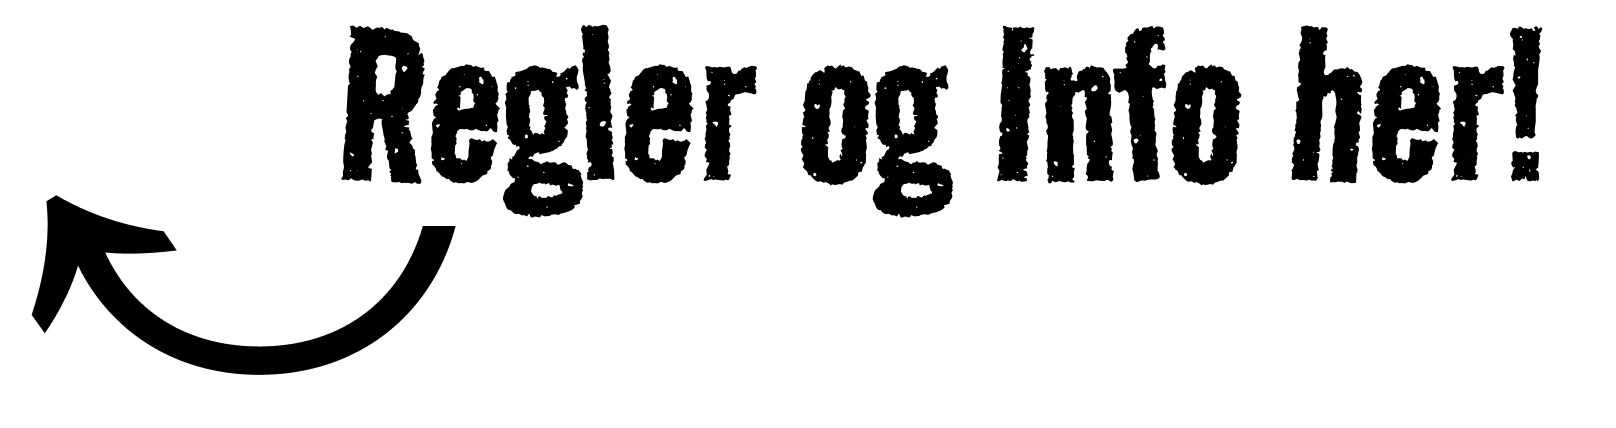
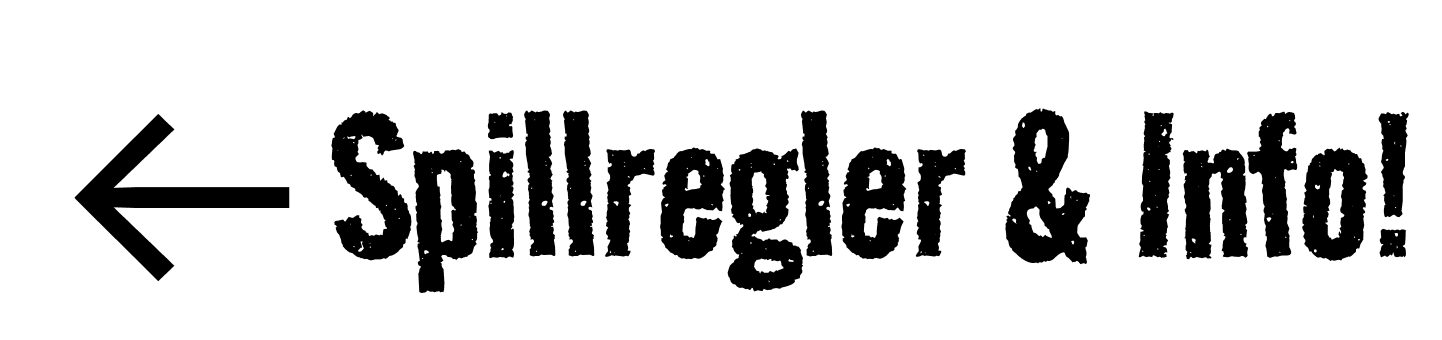
another ui update
>made ui more pleasing to look at
>added a message when user is in horizontal mode

diff --git a/drikkings/src/App.css b/drikkings/src/App.css
@@ -26,18 +26,33 @@ html, body {
   overflow: hidden;
 }
 
+/* For webkit browsers (Chrome, Edge, Safari) */
+::-webkit-scrollbar {
+  display: none;
+}
+
+/* For Firefox */
+html {
+  scrollbar-width: none; /* Firefox */
+  -ms-overflow-style: none; /* IE 10+ */
+}
+
+
 #nav {
   position: absolute;
   top: 0;
   left: 0;
-  height: 4.4rem;
+  height: 4rem;
   width: 100vw;
   background-color: white;
-  z-index: 200;
+  z-index: 400;
+  border-bottom: 1px solid #242424;
+  line-height: 1;
 }
 
 .dark #nav {
   background-color: #242424;
+  border-bottom: 1px solid white; 
 }
 
 /* disable longpress on images */
@@ -70,7 +85,7 @@ img {
   width: max-content;
   height: max-content;
   position: absolute;
-  top: 12px;
+  top: 10px;
   right: 12px;
   border: none;
   background-color: #00000000;
@@ -85,12 +100,12 @@ img {
 }
 
 #btnReturn {
-  top: 12px;
+  top: 10px;
   left: 12px;
 }
 
 #btnInfo {
-  top: 12px;
+  top: 10px;
   left: 12px;
   z-index: 500;
 }
@@ -107,9 +122,9 @@ img {
   
   
   position: absolute;
-  top: 42px;
-  left: 38px;
-  width: 7.5rem;
+  top: 0.95rem;
+  left: 3.45rem;
+  width: 7.7rem;
 }
 
 .dark #infoBtnText {
@@ -124,7 +139,7 @@ img {
 /* LOGO */
 .title {
   text-align: center;
-  padding-top: 3rem;
+  padding-top: 5rem;
   margin-bottom: 2rem;
 }
 
@@ -187,7 +202,7 @@ img {
   background-color: white;
   font-size: 2rem;
   text-align: center;
-  z-index: 1050;
+  z-index: 900;
   gap: 1rem;
 }
 
@@ -198,4 +213,24 @@ img {
 #gameLoad h1 {
   margin: 0;
   font-size: 2.5rem;
+}
+
+
+#wrongRotation {
+  display: block;
+  position: absolute;
+  top: 0;
+  left: 0;
+  width: 100vw;
+  height: 100vh;
+  height: 100dvh;
+  width: 100dvw;
+  background-color: white;
+  z-index: 5000;
+  text-align: center;
+  align-content: center;
+}
+
+.dark #wrongRotation {
+  background-color: #242424;
 }

diff --git a/drikkings/src/App.jsx b/drikkings/src/App.jsx
@@ -1,4 +1,6 @@
 import { Routes, Route } from 'react-router-dom';
+import { useNavigate } from "react-router-dom";
+import { useState, useEffect, useRef } from "react";
 import './App.css';
 import { Helmet } from 'react-helmet';
 import './components/styles/buttons.css';
@@ -14,13 +16,39 @@ import Game4 from './components/games/Game4';
 import Game5 from './components/games/Game5';
 
 function App() {
+  const [winRotation, setWinRotation] = useState(false);
+
+  // checks if the phone is in wrong rotation
+  useEffect(() => {
+    const mediaQuery = window.matchMedia("(orientation: portrait)");
+
+    function handleOrientationChange(e) {
+      if (e.matches) {
+        setWinRotation(false);
+      } else {
+        setWinRotation(true);
+      }
+    }
+
+    // Check once on mount
+    handleOrientationChange(mediaQuery);
+
+    // Listen for changes
+    mediaQuery.addEventListener("change", handleOrientationChange);
+
+    // Clean up when component unmounts
+    return () => {
+      mediaQuery.removeEventListener("change", handleOrientationChange);
+    };
+  }, []);
+
   return (
     <>
       {/* Disable zooming */}
       {/* <Helmet>
         <meta name="viewport" content="width=device-width, initial-scale=1.0, maximum-scale=1.0, user-scalable=0" />
       </Helmet> */}
-        <ThemeToggle />
+      <ThemeToggle />
       <div id="nav">
         <InfoButton />
       </div>
@@ -48,6 +76,12 @@ function App() {
           </Routes>
         </div>
       </div>
+
+      {winRotation && (
+          <div id="wrongRotation">
+            <h1>🔄 Roter mobilen vertikalt 🔄</h1>
+          </div>
+        )};
     </>
   );
 }

diff --git a/drikkings/src/components/games/Game2.jsx b/drikkings/src/components/games/Game2.jsx
@@ -268,12 +268,14 @@ function Game2() {
 
   return (
     <div className="game" id="game2">
-      <button id="btnReturn" onClick={() => { resetNextText(); navigate("/"); }}>⬅</button>
-      <h2 id="g2_title">Shot Roulette</h2>
+      <div id="nav">
+        <button id="btnReturn" onClick={() => { resetNextText(); navigate("/"); }}>⬅</button>
+        <h2 id="g2_title">Shot Roulette</h2>
+      </div>
+
       <p id="clickTextGame2" ref={clickTextRef} className={firstPress ? "clicked" : ""}>
         Hint: Trykk for å skyte revolveren!
       </p>
-
       <div id="game2Container" onPointerUp={() => { shotsFired(); }}>
         <div id="revGun">
           <img draggable="false" className="rev_light" src={imageCache.current["revolver"]?.src} alt="revolver" />
@@ -287,11 +289,11 @@ function Game2() {
         </p>
 
         <div id="nextText" />
+        <div id="shotVisual">
+          <RoundsLeft rounds={shotRounds} />
+        </div>
       </div>
 
-      <div id="shotVisual">
-        <RoundsLeft rounds={shotRounds} />
-      </div>
 
       {gameIntro && (
         <div id="game2Start" className={isIntroClicked ? "clicked" : ""}>

diff --git a/drikkings/src/components/games/g_styles/game2.css b/drikkings/src/components/games/g_styles/game2.css
@@ -8,12 +8,16 @@
   background-color: rgb(255, 255, 255);
 }
 
+#nav {
+  z-index: 1000;
+}
+
 .dark #game2 {
   background-color: #242424;
 }
 
 #g2_title {
-  z-index: 1100;
+  z-index: 1000;
 }
 
 #game2Container {
@@ -110,7 +114,7 @@
   justify-self: center;
   align-self: center;
   bottom: 0;
-  z-index: 1000;
+  z-index: 650;
   width: 100vw;
   height: max-content;
   background-color: none;
@@ -179,7 +183,7 @@
 }
 
 #clickTextGame2 {
-  margin-top: 1rem;
+  margin-top: 5.4rem;
   align-items: center;
   align-self: center;
   transition: 0.1s;
@@ -219,7 +223,7 @@
   color: white;
   font-size: 2rem;
   text-align: center;
-  z-index: 1050;
+  z-index: 700;
   gap: 1rem;
 }
 
@@ -336,7 +340,7 @@
   color: white;
   font-size: 2rem;
   text-align: center;
-  z-index: 1000;
+  z-index: 800;
   gap: 1rem;
   cursor: pointer;
 }

diff --git a/drikkings/src/components/games/g_styles/info.css b/drikkings/src/components/games/g_styles/info.css
@@ -16,16 +16,21 @@
   position: absolute;
   top: 0;
   left: 0;
-  height: 4.4rem;
+  height: 4rem;
   width: 100vw;
-  background-color: white;
-  z-index: 500;
+  background-color: rgb(255, 255, 255);
+  z-index: 1000;
   text-align: center;
   justify-content: center;
+  border-bottom: 1px solid #242424;
+  line-height: 1;
+  /* backdrop-filter: blur(50px);
+  -webkit-backdrop-filter: blur(50px); */
 }
 
 .dark #nav_info {
   background-color: #242424;
+  border-bottom: 1px solid white; 
 }
 
 #info_container {
@@ -39,7 +44,7 @@
   align-self: center;
   margin: 0 auto;
   width: 90%;
-  padding-top: 4.4rem;
+  padding-top: 5.5rem;
   height: max-content;
 }
 

diff --git a/drikkings/src/components/games/Game3.jsx b/drikkings/src/components/games/Game3.jsx
@@ -139,6 +139,7 @@ function Game3() {
 
     return (
         <div className="game" id="game3">
+            <div id="nav"></div>
             <button id="btnReturn" onClick={() => navigate("/")}>⬅</button>
             <h2 id="g3_title">Flasketuten peker på</h2>
             <p id="clickTextGame3" ref={clickTextRef} className={firstPress ? "clicked" : ""}>

diff --git a/drikkings/src/components/games/g_styles/game1.css b/drikkings/src/components/games/g_styles/game1.css
@@ -7,6 +7,10 @@
   overscroll-behavior: none;
 }
 
+#nav {
+  z-index: 1000;
+}
+
 .game1Container {
   display: flex;
   justify-content: center;
@@ -26,7 +30,7 @@
   position: absolute;
   box-sizing: border-box;
   padding: 10px;
-  padding-top: 2rem;
+  padding-top: 4rem;
   padding-bottom: 0;
 
   position: absolute;

diff --git a/drikkings/src/components/games/Game1.jsx b/drikkings/src/components/games/Game1.jsx
@@ -107,8 +107,10 @@ function Game1() {
 
   return (
     <div className="game" id="game1">
+      <div id="nav">
       <button id="btnReturn" onClick={() => navigate("/")}>⬅</button>
       <h2>1/16 Minesweeper</h2>
+      </div>
 
       <div className="game1Container">
         <div id="game1Buttons">
